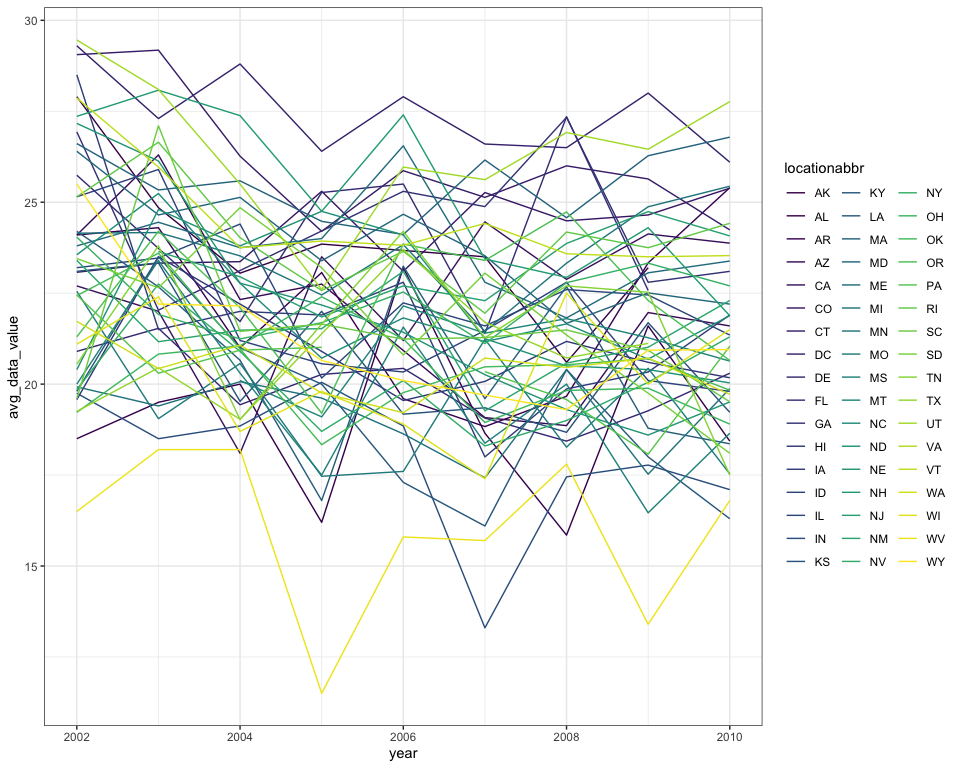
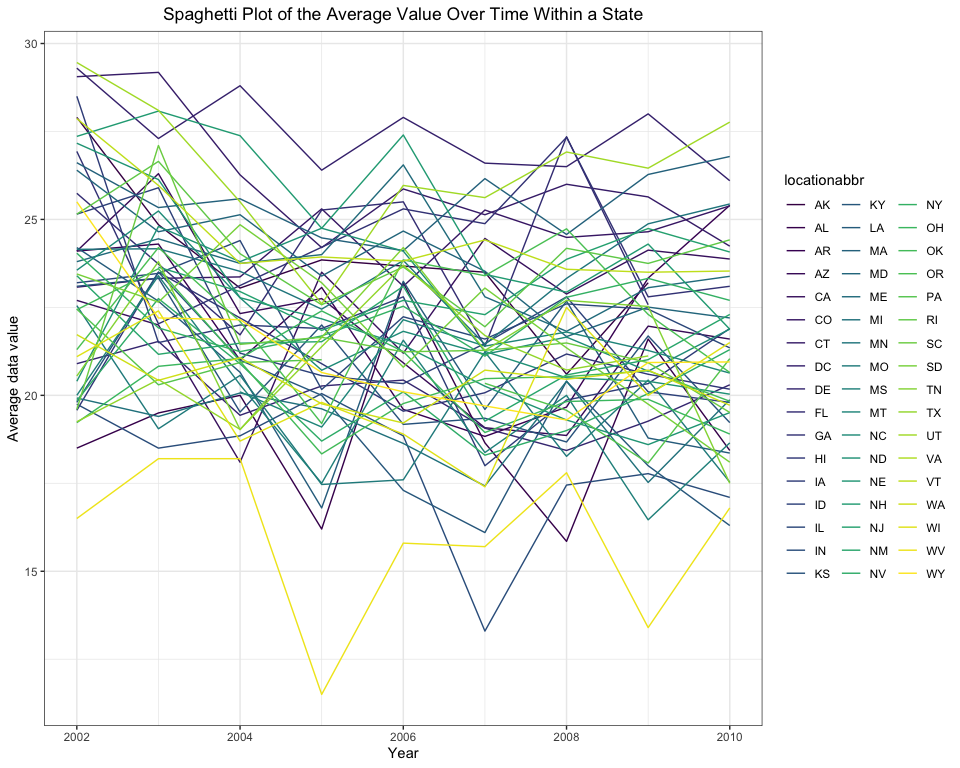
10/12/2019, modified plots and tables

diff --git a/p8105_hw3_zl2860.md b/p8105_hw3_zl2860.md
@@ -5,7 +5,7 @@ Zongchao Liu
 
 # Problem 1
 
-## load data
+## Load data
 
 Let’s see a brief summary of this dataset
 
@@ -46,22 +46,32 @@ Let’s see a brief summary of this dataset
     ##       0       1       1       1 ▆▁▁▁▁▁▁▇
     ##   51732   1e+05  154959  206209 ▇▇▇▇▇▇▇▇
 
-The `instacart` dataset has 1384617 observations of 15 variables. The
-brief summary of the data shows that the datatypes inclue both the
+The `instacart` dataset has `1384617` observations of `15` variables.
+The brief summary of the data shows that the datatypes inclue both the
 character and the integer. However, some of the variables are not in the
 correct type for feature analysis(i.e. `*_id`), requiring cleaning based
 on our need. Key variables include
 `aisle`,`deaprment`,`product_name`,`order_dow`, `order_hour_of_day` and
 others.
 
-Illustrative examples of observation: e.g. The first row indicates that
-the customer with id 112108 bought a Bulgarian Yogurt at `yogurt` aisle
-from the `diary eggs` department. The id of the aisle is 120 and the id
-of the deparmtent is 16. This product was ordered during the 10th hour
-on the 4 th day of the week. Days since the last order are 9 and the
-order sequence number for this user is 4 th. This prodcut has been
-ordered by this user in the past. The evaluation set this order belongs
-in is
+Illustrative examples of observation:
+
+The first row of the data indicates that the customer with id `112108`
+bought a `Bulgarian Yogurt` at `yogurt` aisle from the `dairy eggs`
+department. The id of the aisle is `120` and the id of the deparmtent is
+`16`. This product was ordered during the `10th hour` on the `4 th day`
+of the week. Days since the last order are `9` and the order sequence
+number for this user is `4 th`. This prodcut has been ordered by this
+user in the past. The evaluation set this order belongs in is `train`.
+
+The second row of the data indicates that the customer with id `112108`
+bought an `Organic 4% Milk Fat Whole Milk Cottage Cheese` at `other
+creams cheeses` aisle from the `dairy eggs` department. The id of the
+aisle is `108` and the id of the deparmtent is `16`. This product was
+ordered during the `10th hour` on the `4 th day` of the week. Days since
+the last order are `9` and the order sequence number for this user is `4
+th`. This prodcut has been ordered by this user in the past. The
+evaluation set this order belongs in is
 `train`.
 
 ## Answer the questions:
@@ -96,6 +106,10 @@ aisle.
 
 ### 3\. Make a table showing the three most popular items in each of the aisles “baking ingredients”, “dog food care”, and “packaged vegetables fruits”. Include the number of times each item is ordered in your table.
 
+#### Table 1. Three Most Popular Items in Each of the Aisles
+
+#### (“baking ingredients”, “dog food care”, and “packaged vegetables fruits”)
+
 | aisle                      | product\_name                                 | items\_number |
 | :------------------------- | :-------------------------------------------- | ------------: |
 | baking ingredients         | Light Brown Sugar                             |           499 |
@@ -108,10 +122,9 @@ aisle.
 | packaged vegetables fruits | Organic Raspberries                           |          5546 |
 | packaged vegetables fruits | Organic Blueberries                           |          4966 |
 
-Table
-1
-
 ### 4\. Make a table showing the mean hour of the day at which Pink Lady Apples and Coffee Ice Cream are ordered on each day of the week; format this table for human readers (i.e. produce a 2 x 7 table)
+
+#### Table 2. The Mean Hour of the Day at Which Pink Lady Apples and Coffee Ice Cream Are Ordered
 
 | product\_name    | Sunday | Monday | Tuesday | Wednesday | Thursday | Friday | Saturday |
 | :--------------- | -----: | -----: | ------: | --------: | -------: | -----: | -------: |
@@ -120,7 +133,27 @@ Table
 
 # Problem 2
 
-## answer the questions:
+## Data Cleaning
+
+``` r
+#data cleaning
+BRFSS <- brfss_smart2010 %>%
+  janitor::clean_names() %>%
+  filter(topic == "Overall Health") %>%
+  filter(response == "Excellent" |
+         response ==  "Good" |
+         response == "Very good"|
+         response == "Fair" |
+         response == "Poor"
+         ) %>%
+  mutate(response = factor(response, levels = c("Poor",
+                                       "Fair",
+                                       "Good",
+                                       "Very good",
+                                       "Excellent")))
+```
+
+## Answer the questions:
 
 ### 1\. In 2002, which states were observed at 7 or more locations? What about in 2010?
 
@@ -157,12 +190,12 @@ In 2010, CA, CO, FL, MA, MD, NC, NE, NJ, NY, OH, PA, SC, TX, WA were
 observed at 7 or more
 locations.
 
-### 2\. Construct a dataset that is limited to Excellent responses, and contains, year, state, and a variable that averages the data\_value across locations within a state. Make a “spaghetti” plot of this average value over time within a state (that is, make a plot showing a line for each state across years – the geom\_line geometry and group aesthetic will help).
+### 2\. Construct a dataset that is limited to Excellent responses, and contains, year, state, and a variable that averages the data\_value across locations within a state. Make a “spaghetti” plot of this average value over time within a state.
 
 <img src="p8105_hw3_zl2860_files/figure-gfm/unnamed-chunk-9-1.png" width="90%" />
 
 From the plot above we can see that for most of the states, the average
-`data_value`s are within the range of 17.5 ~ 27.5 and flutuate across
+`data_value`s are within the range of 17.5 ~ 27.5 and fluctuate across
 the
 years.
 
@@ -171,7 +204,7 @@ years.
 <img src="p8105_hw3_zl2860_files/figure-gfm/unnamed-chunk-10-1.png" width="90%" />
 
 I also made another plot here to show the density of the `data_value`.
-However, in this plot, the names of the counties are not specified. The
+In this plot, the names of the counties are not specified. However, the
 two plots respectively reflect different
 information.
 
@@ -181,7 +214,7 @@ information.
 
 <img src="p8105_hw3_zl2860_files/figure-gfm/unnamed-chunk-11-1.png" width="90%" />
 
-# problem 3
+# Problem 3
 
 ## Q1. Load, tidy, and otherwise wrangle the data.
 
@@ -194,13 +227,15 @@ information.
     ## See spec(...) for full column specifications.
 
 The dataset `accel_data` has 35 observations of 1444, containing the
-activity information in each minute of 35 days. Also, index of weeks and
-days are shown by the dataset. Here, I rearrange the `day_id` so that
-the values within this variable are matched with the day of the week,
-which is an important preparation for future
+activity information in each minute of 35 days. Also, indexes of weeks
+and days are shown by the dataset. Here, I rearrange the `day_id` so
+that the values within this variable are matched with the day of the
+week, which is an important preparation for future
 analysis.
 
 ## Q2. Traditional analyses of accelerometer data focus on the total activity over the day. Using your tidied dataset, aggregate accross minutes to create a total activity variable for each day, and create a table showing these totals. Are any trends apparent?
+
+### Table 3. Total Activity Variable for Each Day
 
 | week | day       | total\_activity |
 | :--- | :-------- | --------------: |
@@ -246,7 +281,7 @@ Since there are 35 days(the table has too many rows), the table is hard
 to directly show the trends. Therefore, I add a plot here. From the plot
 above, which is derived from the table, it is easy to find that the
 activity of the man on Sundays is keeping decreasing. Also, There is a
-peak of the activity on the Monday of the third week and a peak of the
+peak of the activity on the Monday of the third week and a peak of
 weekly activity in the third week. Obviously, the activity on Saturdays
 of the fourth and the fith week is too low to see on the plot. I have
 checked the data of these two days on the table, and find that the
@@ -257,6 +292,11 @@ situation.
 ## Q3. Accelerometer data allows the inspection activity over the course of the day. Make a single-panel plot that shows the 24-hour activity time courses for each day and use color to indicate day of the week. Describe in words any patterns or conclusions you can make based on this graph.
 
 <img src="p8105_hw3_zl2860_files/figure-gfm/unnamed-chunk-14-1.png" width="90%" />
+
+    ## Scale for 'fill' is already present. Adding another scale for 'fill',
+    ## which will replace the existing scale.
+
+<img src="p8105_hw3_zl2860_files/figure-gfm/unnamed-chunk-15-1.png" width="90%" />
 
 I made two plots here trying to show the trends.
 
@@ -271,7 +311,7 @@ from the 7th hour to the 21 st hour. After that, the activity decreases
 again. If the order of the hours is matched with real time, the result
 will be more believable because it does relect a normal daily life.
 
-Secondly, I madd a time-series heatmap to show the trend of the 24-hour
+Secondly, I add a time-series heatmap to show the trend of the 24-hour
 activity. This plot is different from the first plot because it just
 shows the activity of every hour rather than every minute of a day. We
 can get the similar conclusion: the activity keeps increasing before the
@@ -284,10 +324,4 @@ I have checked the activity of those days in the dataset and find that
 for most of the minutes within those days, the activity per minute is
 only “1”. There are many reasons to explain that. Perhaps it’s because
 the device failed to record data at that time and only returned the
-activity value as
-    “1”.
-
-    ## Scale for 'fill' is already present. Adding another scale for 'fill',
-    ## which will replace the existing scale.
-
-<img src="p8105_hw3_zl2860_files/figure-gfm/unnamed-chunk-15-1.png" width="90%" />
+activity value as “1”.
